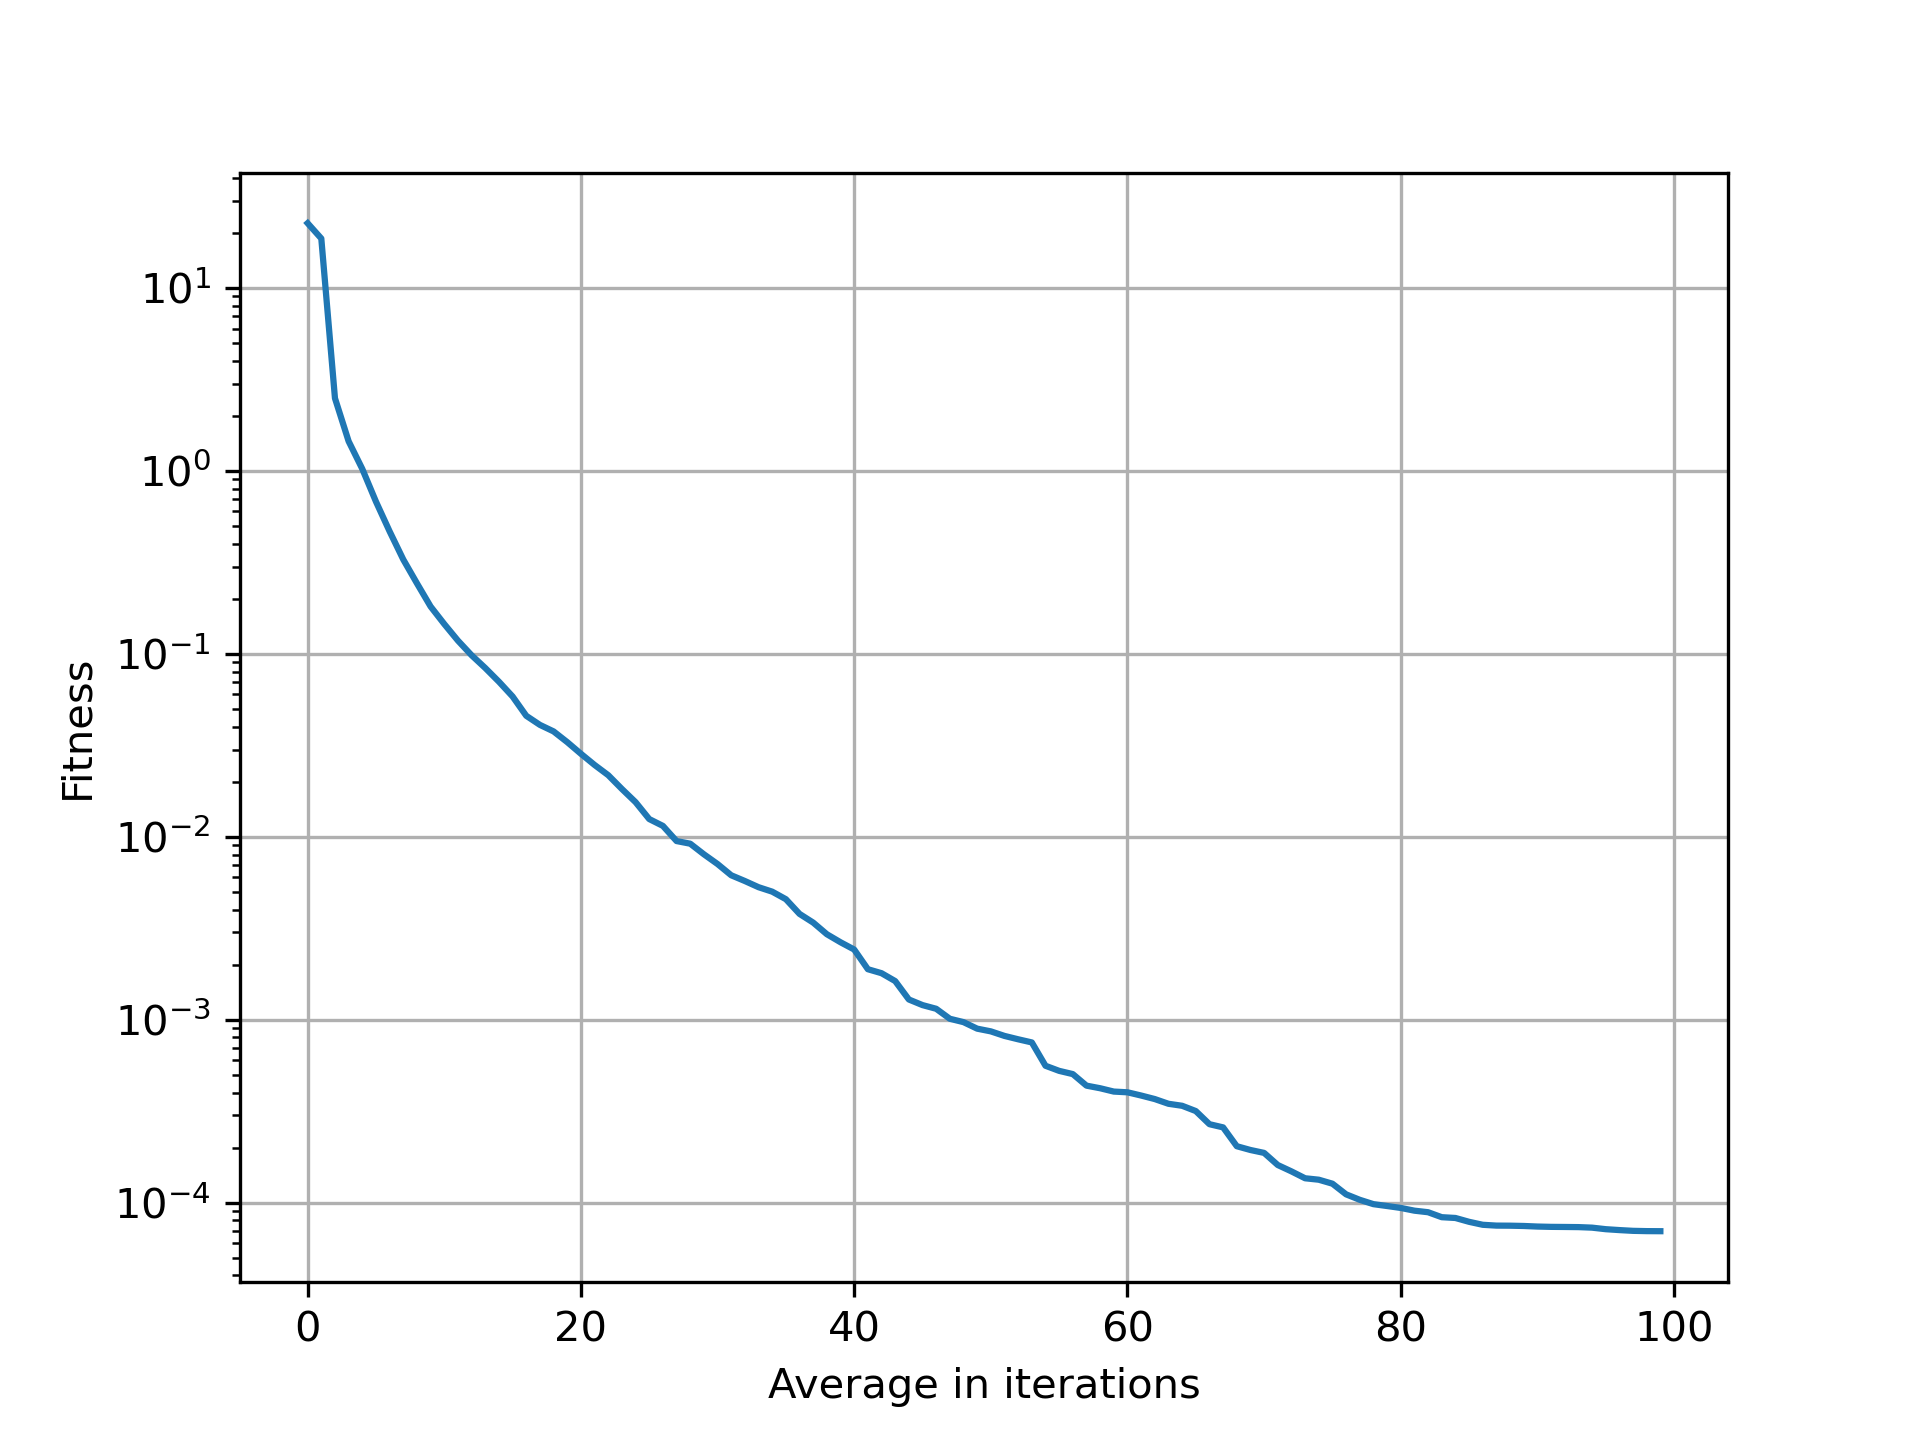
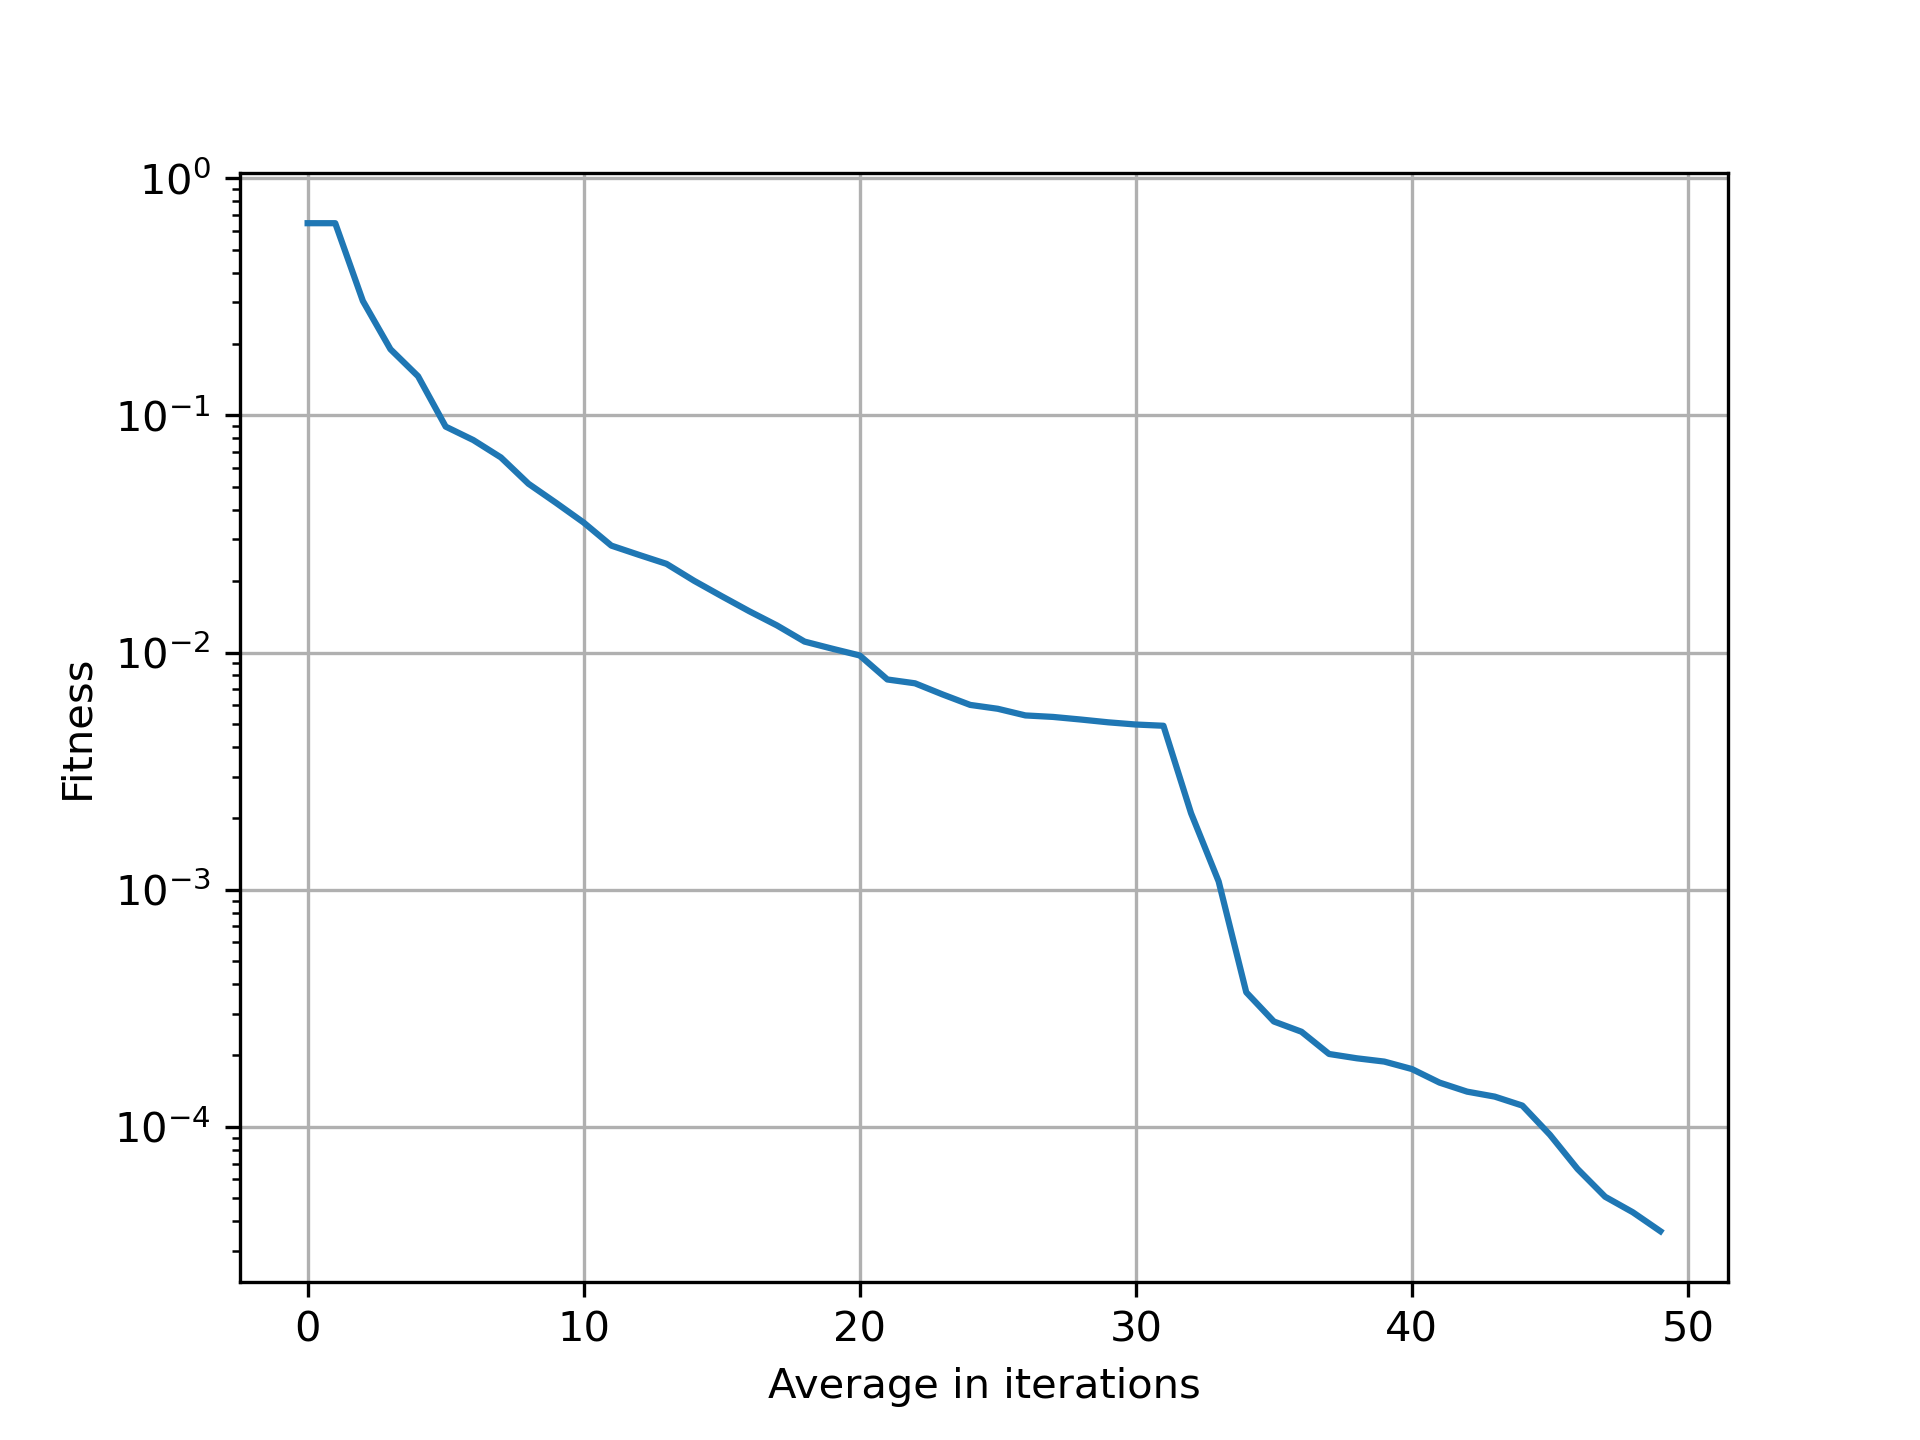
commit

diff --git a/testWoa.py b/testWoa.py
@@ -47,11 +47,11 @@ def experiments_network(f,filename,max_iter,number_experiments,num_whales,dim,re
     #plt.show()
     plt.savefig(filename+".png")
 
-max_iter = 100
-number_experiments = 100
-num_whales = 100
+max_iter = 50
+number_experiments = 50
+num_whales = 150
 dim = 2
-rewiring = 0.3
+rewiring = 0.35
 experiments_wao(f.function_bukin,"bukinWAO",max_iter,number_experiments,num_whales, dim)
 experiments_network(f.function_bukin,"bukinNetwork",max_iter,number_experiments,num_whales, dim,rewiring)
 
